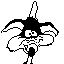
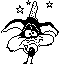
Mejoro imagen del coyote golpeado

diff --git a/TP2/Proyectos/merge_definitivo/source/coyote.c b/TP2/Proyectos/merge_definitivo/source/coyote.c
@@ -75,39 +75,39 @@ unsigned char coyote_cayendo[]=
 
 unsigned char coyote_golpeado[] =
 {
-    ________,________,________,________,________,________,________,________,
-    ________,________,________,________,__XX____,________,________,________,
-    ________,________,________,________,_X__X___,________,________,________,
-    ________,________,________,________,_X__X___,________,________,________,
-    ________,________,________,________,X___X___,________,________,________,
-    ________,________,________,________,X___X___,________,________,________,
-    ________,________,________,________,X____X__,________,________,________,
-    ________,________,________,________,X____X__,________,________,________,
-    ________,________,________,_______X,_____X__,________,________,________,
-    ________,________,________,_______X,_____X__,________,________,________,
-    ________,________,________,_______X,____X___,________,________,________,
-    ________,________,________,______X_,____X___,________,________,________,
-    ________,________,________,______X_,____X___,________,________,________,
-    ________,________,________,______X_,___X____,________,________,________,
+    ________,________,________,____X___,________,________,________,________,
+    ________,________,________,____X___,__XX____,________,_X______,________,
+    ________,________,________,__XX_XX_,_X__X___,________,_X______,________,
+    ________,________,________,___XXX__,_X__X___,______XX,X_XXX___,________,
+    ________,________,________,___X_X__,X___X___,_______X,___X____,________,
+    ________,________,___X____,________,XX__X___,________,X_X_____,________,
+    ________,________,___XX___,________,X__X_X__,_______X,XXXX____,________,
+    ________,________,___XX___,________,X____X__,_______X,___X____,________,
+    ________,________,XXX__XXX,_______X,__X__X__,________,________,________,
+    ________,________,_X____X_,_______X,_____X__,________,________,________,
+    ________,________,__X__X__,_______X,____X___,________,________,________,
+    ________,________,_X_XX_X_,______X_,X___X___,________,________,________,
+    ________,________,_XX__XX_,______X_,__X_X___,________,________,________,
+    ________,________,______X_,______X_,X__X____,________,________,________,
     ________,________,________,_____X__,___X____,________,________,________,
-    ________,________,________,_____X__,___X____,________,________,________,
-    ________,________,________,_____X__,X__X____,________,________,________,
+    ________,________,________,_____X_X,___X____,________,________,________,
+    ________,________,________,_____X__,_X_X____,________,________,________,
     ________,________,________,___XXXXX,X__X____,________,________,________,
     ________,________,________,___XXXXX,XXX_X___,________,________,________,
     ________,______XX,XXXXXX__,__XXXXXX,XXXX_X__,________,________,________,
     ________,____XXXX,XXXXXXXX,XXXXXXXX,XXXXXX__,________,________,________,
     ________,__XXXXXX,XXXXXXXX,XXXXXXXX,XXXXXX__,________,________,________,
     ________,_XXXXXX_,_____XXX,XXXXXXXX,XXXXXXX_,_____XXX,XXX_____,________,
-    ________,XXXX____,______XX,XXXXXXXX,XXXXXXXX,XXXXXXXX,XXXX____,________,
-    _______X,XX______,_______X,XXXXXXXX,XXXXXXXX,XXXXXXXX,XXXXX___,________,
-    ______XX,X_______,________,XXXXXXXX,XXXXXXXX,XXXXXXXX,__XXXX__,________,
-    _____XXX,________,________,XXXXXXXX,XXXXXXXX,XX______,___XXX__,________,
-    _____XX_,_____XXX,XX_____X,XXXXXXXX,XXXXXXXX,________,____XXX_,________,
-    ____XX__,__XXX___,__XX___X,XXXXXXXX,XXXXXXXX,________,______XX,________,
-    ___X____,XX______,____X_XX,XXXXXXXX,XXXXXXXX,X_______,_______X,X_______,
-    __X____X,________,_____XXX,XX_____X,XXXXXXXX,X_______,_X______,XX______,
+    ________,XXXX____,______XX,XXXX__XX,XXXXXXXX,XXXXXXXX,XXXX____,________,
+    _______X,XX______,_______X,XXX_XX_X,__XXXXXX,XXXXXXXX,XXXXX___,________,
+    ______XX,X_______,________,XX_XXXXX,XX_XXXXX,XXXXXXXX,__XXXX__,________,
+    _____XXX,________,________,XXXXXX_X,XXX_XXXX,XX______,___XXX__,________,
+    _____XX_,_____XXX,XX_____X,X_XXXXX_,XXXXXXXX,________,____XXX_,________,
+    ____XX__,__XXX___,__XX___X,XXXXXXX_,XXXX_XXX,________,______XX,________,
+    ___X____,XX______,____X_XX,_XXXXXXX,XXXXX_XX,X_______,_______X,X_______,
+    __X____X,________,_____XX_,XX_____X,XXXXXX_X,X_______,_X______,XX______,
     _X_XXXX_,________,______XX,X______X,___XXXXX,X____XXX,X_XXX___,_XX_____,
-    _X______,________,_____XXX,X_______,XX__XXXX,XX__X___,_____X__,_XX_____,
+    _X______,________,_____XXX,X_______,XX__XX_X,XX__X___,_____X__,_XX_____,
     ________,________,____XXXX,X____XX_,XX___XXX,XXXX____,______X_,_X______,
     ________,________,___XXXXX,X____XX_,_____XXX,XXXXXXXX,XX_____X,_X______,
     ________,________,_XXXXXXX,X______X,_____XX_,________,__XX___X,X_______,
@@ -124,8 +124,8 @@ unsigned char coyote_golpeado[] =
     _______X,________,________,X__X____,_____X_X,________,________,________,
     ______XX,X_______,________,_X_X__XX,X____X__,________,________,________,
     ________,XX______,___XXXXX,_XX__XXX,XX___X__,________,________,________,
-    ________,_X______,_XX____X,_XX__XXX,XXX__X__,________,________,________,
-    ________,_XXXXX_X,X______X,__X__XXX,XXX__X__,________,________,________,
+    ________,_X______,_XX____X,_XX__XX_,XXX__X__,________,________,________,
+    ________,_XXXXX_X,X______X,__X__X_X,XXX__X__,________,________,________,
     ________,__XXX_X_,________,X__XXXXX,XXX_X___,________,________,________,
     ________,________,________,_X__XXXX,XXXX____,________,________,________,
     ________,________,________,__XXXXXX,XXX_____,________,________,________,
